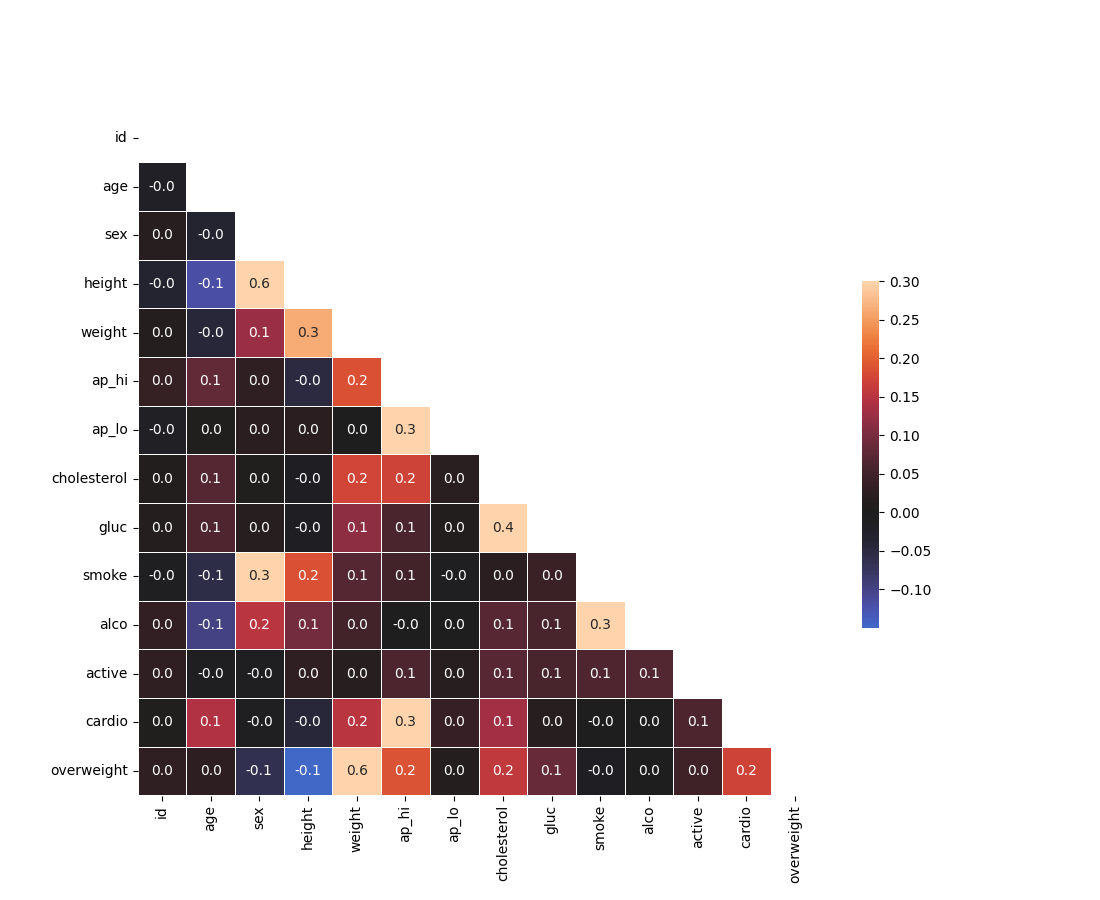
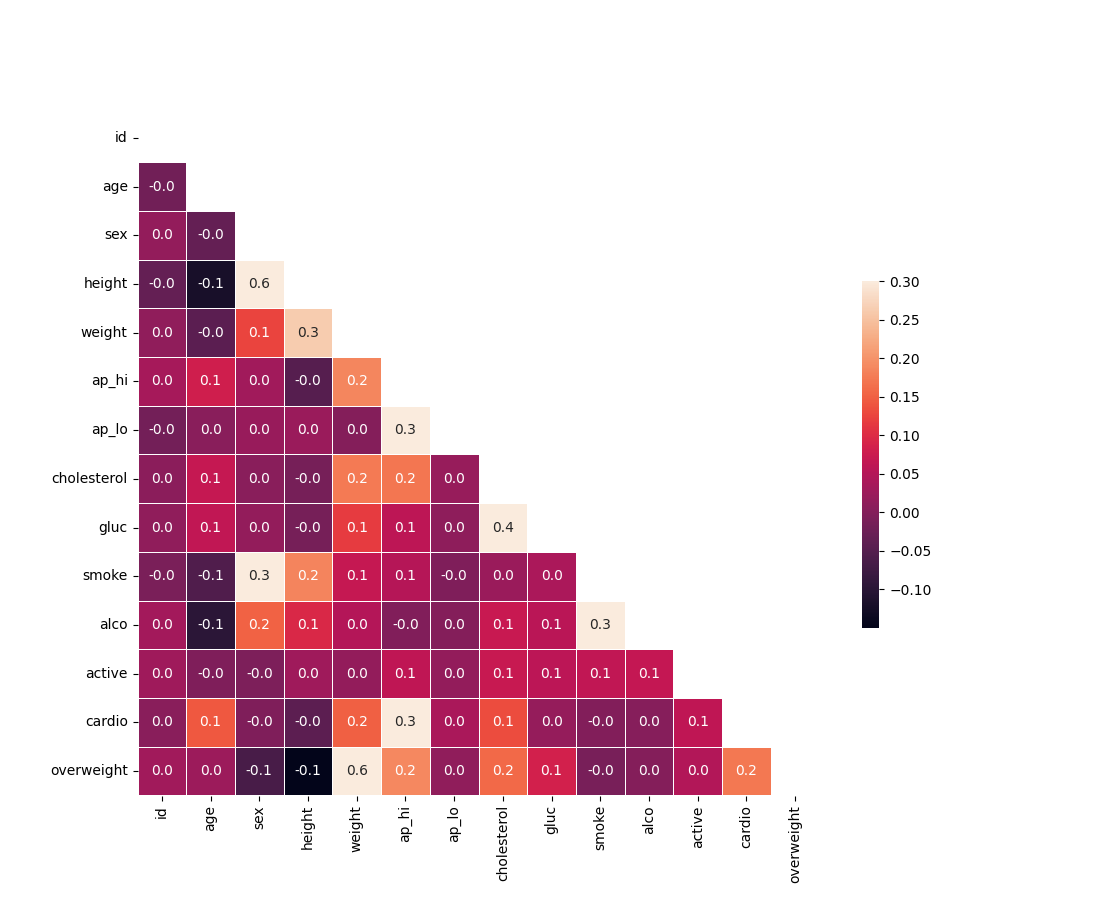
put center=0 back in

Changed region(s): [[0.1236, 0.1556, 0.7109, 0.9022], [0.7727, 0.3111, 0.8036, 0.7156]]

diff --git a/medical_data_visualizer.py b/medical_data_visualizer.py
@@ -54,7 +54,7 @@ def draw_heat_map():
         fmt='.1f', 
         linewidths=.5, 
         vmax=.3, 
-        #center=0, 
+        center=0, 
         square=True, 
         cbar_kws={'shrink': .5}
         )
